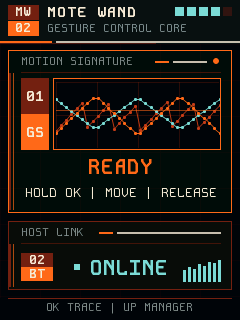
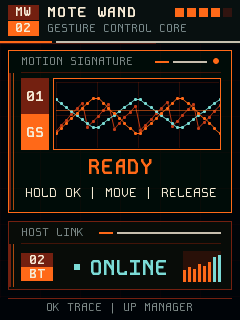
style(ui): refine battery and link telemetry

Changed region(s): [[0.7583, 0.7812, 0.9333, 0.9062], [0.7292, 0.0, 0.9333, 0.0625]]

diff --git a/main/ui_fui.c b/main/ui_fui.c
@@ -9,6 +9,11 @@ LV_FONT_DECLARE(ui_font_kode_bold_13);
 LV_FONT_DECLARE(ui_font_kode_bold_15);
 LV_FONT_DECLARE(ui_font_kode_bold_21);
 
+#define HEADER_PANEL_RIGHT       232
+#define BATTERY_SEGMENT_SIZE       9
+#define BATTERY_SEGMENT_GAP        3
+#define LINK_RSSI_LIVE_THRESHOLD (-44)
+
 static lv_obj_t *box(lv_obj_t *parent, int x, int y, int width, int height,
                      uint32_t background, lv_opa_t opacity)
 {
@@ -58,6 +63,37 @@ static void add_grid(lv_obj_t *screen)
     for (int y = 44; y < 298; y += 36) {
         box(screen, 0, y, 240, 1, UI_FUI_CYAN_DIM, 24);
     }
+}
+
+static void link_chart_draw_event(lv_event_t *event)
+{
+    lv_draw_task_t *draw_task = lv_event_get_draw_task(event);
+    if (!draw_task || lv_draw_task_get_type(draw_task) != LV_DRAW_TASK_TYPE_FILL) {
+        return;
+    }
+    lv_draw_dsc_base_t *base =
+        (lv_draw_dsc_base_t *)lv_draw_task_get_draw_dsc(draw_task);
+    if (!base || base->part != LV_PART_ITEMS) return;
+
+    lv_obj_t *chart = lv_event_get_target_obj(event);
+    lv_chart_series_t *series = lv_chart_get_series_next(chart, NULL);
+    lv_draw_fill_dsc_t *fill = lv_draw_task_get_fill_dsc(draw_task);
+    if (!series || !fill) return;
+
+    uint32_t count = lv_chart_get_point_count(chart);
+    if (count == 0U || base->id2 >= count) return;
+    int32_t *values = lv_chart_get_series_y_array(chart, series);
+    if (!values) return;
+    uint32_t start = lv_chart_get_x_start_point(chart, series);
+    uint32_t point = (start + base->id2) % count;
+    int32_t value = values[point];
+    if (value == LV_CHART_POINT_NONE) return;
+
+    // -100..-30 dBm is normalized to 0..100%; -44 dBm is the 80% point.
+    // Only the strongest samples keep the live LINK color. Everything below
+    // 80% returns to the orange FUI theme color.
+    fill->color = value >= LINK_RSSI_LIVE_THRESHOLD ?
+        lv_chart_get_series_color(chart, series) : lv_color_hex(UI_FUI_CYAN);
 }
 
 static void scan_y(void *object, int32_t y)
@@ -152,8 +188,19 @@ void ui_fui_create_with_typography(ui_fui_t *ui,
     lv_obj_align_to(subtitle, header_code_bottom, LV_ALIGN_OUT_RIGHT_MID,
                     8, 0);
 
+    const int battery_width =
+        (int)UI_FUI_BATTERY_SEGMENTS * BATTERY_SEGMENT_SIZE +
+        ((int)UI_FUI_BATTERY_SEGMENTS - 1) * BATTERY_SEGMENT_GAP;
+    lv_obj_t *battery_group = box(screen, 0, 0, battery_width,
+                                  BATTERY_SEGMENT_SIZE,
+                                  UI_FUI_BG, LV_OPA_TRANSP);
+    lv_obj_align_to(battery_group, title, LV_ALIGN_OUT_RIGHT_MID, 0, 0);
+    lv_obj_set_x(battery_group, HEADER_PANEL_RIGHT - battery_width);
     for (unsigned i = 0; i < UI_FUI_BATTERY_SEGMENTS; i++) {
-        ui->battery_segments[i] = box(screen, 175 + (int)i * 12, 7, 9, 9,
+        int x = (int)i * (BATTERY_SEGMENT_SIZE + BATTERY_SEGMENT_GAP);
+        ui->battery_segments[i] = box(battery_group, x, 0,
+                                      BATTERY_SEGMENT_SIZE,
+                                      BATTERY_SEGMENT_SIZE,
                                       UI_FUI_CYAN_DIM, LV_OPA_40);
     }
 
@@ -297,7 +344,9 @@ void ui_fui_create_with_typography(ui_fui_t *ui,
     lv_obj_set_size(ui->link_chart, 38, 31);
     lv_obj_set_style_pad_all(ui->link_chart, 0, 0);
     lv_obj_set_style_radius(ui->link_chart, 0, 0);
-    lv_obj_set_style_bg_opa(ui->link_chart, LV_OPA_TRANSP, 0);
+    lv_obj_set_style_bg_color(ui->link_chart,
+                              lv_color_hex(UI_FUI_RUST), 0);
+    lv_obj_set_style_bg_opa(ui->link_chart, LV_OPA_30, 0);
     lv_obj_set_style_border_width(ui->link_chart, 0, 0);
     lv_obj_set_style_line_opa(ui->link_chart, LV_OPA_TRANSP, LV_PART_MAIN);
     lv_obj_set_style_pad_column(ui->link_chart, 1, LV_PART_MAIN);
@@ -312,6 +361,9 @@ void ui_fui_create_with_typography(ui_fui_t *ui,
                                           LV_CHART_AXIS_PRIMARY_Y);
     lv_chart_set_all_values(ui->link_chart, ui->link_series,
                             LV_CHART_POINT_NONE);
+    lv_obj_add_event_cb(ui->link_chart, link_chart_draw_event,
+                        LV_EVENT_DRAW_TASK_ADDED, NULL);
+    lv_obj_add_flag(ui->link_chart, LV_OBJ_FLAG_SEND_DRAW_TASK_EVENTS);
 
     box(ui->home_layer, 8, 254, 224, 1, UI_FUI_CYAN_DIM, LV_OPA_COVER);
     ui->home_help = label(ui->home_layer, "OK TRACE | UP MANAGER", 0, 257,
@@ -624,8 +676,7 @@ void ui_fui_set_battery(ui_fui_t *ui, bool available, int soc, int millivolts)
         return;
     }
 
-    uint32_t color = soc < 15 ? UI_FUI_RED :
-                     soc < 30 ? UI_FUI_AMBER : UI_FUI_GREEN;
+    uint32_t color = soc < 15 ? UI_FUI_RED : UI_FUI_CYAN;
     unsigned filled = soc > 0 ?
         ((unsigned)soc * UI_FUI_BATTERY_SEGMENTS + 99U) / 100U : 0U;
     for (unsigned i = 0; i < UI_FUI_BATTERY_SEGMENTS; i++) {

diff --git a/simulator/main.c b/simulator/main.c
@@ -198,7 +198,7 @@ static void make_trace(int16_t trace[][UI_FUI_TRACE_AXES])
 static void make_link_history(ui_fui_t *ui)
 {
     static const int rssi_samples[UI_FUI_LINK_POINTS] = {
-        -72, -64, -69, -58, -62, -53, -57, -49,
+        -72, -64, -69, -58, -62, -53, -43, -39,
     };
     for (unsigned i = 0; i < UI_FUI_LINK_POINTS; i++) {
         ui_fui_set_link_quality(ui, true, rssi_samples[i]);
